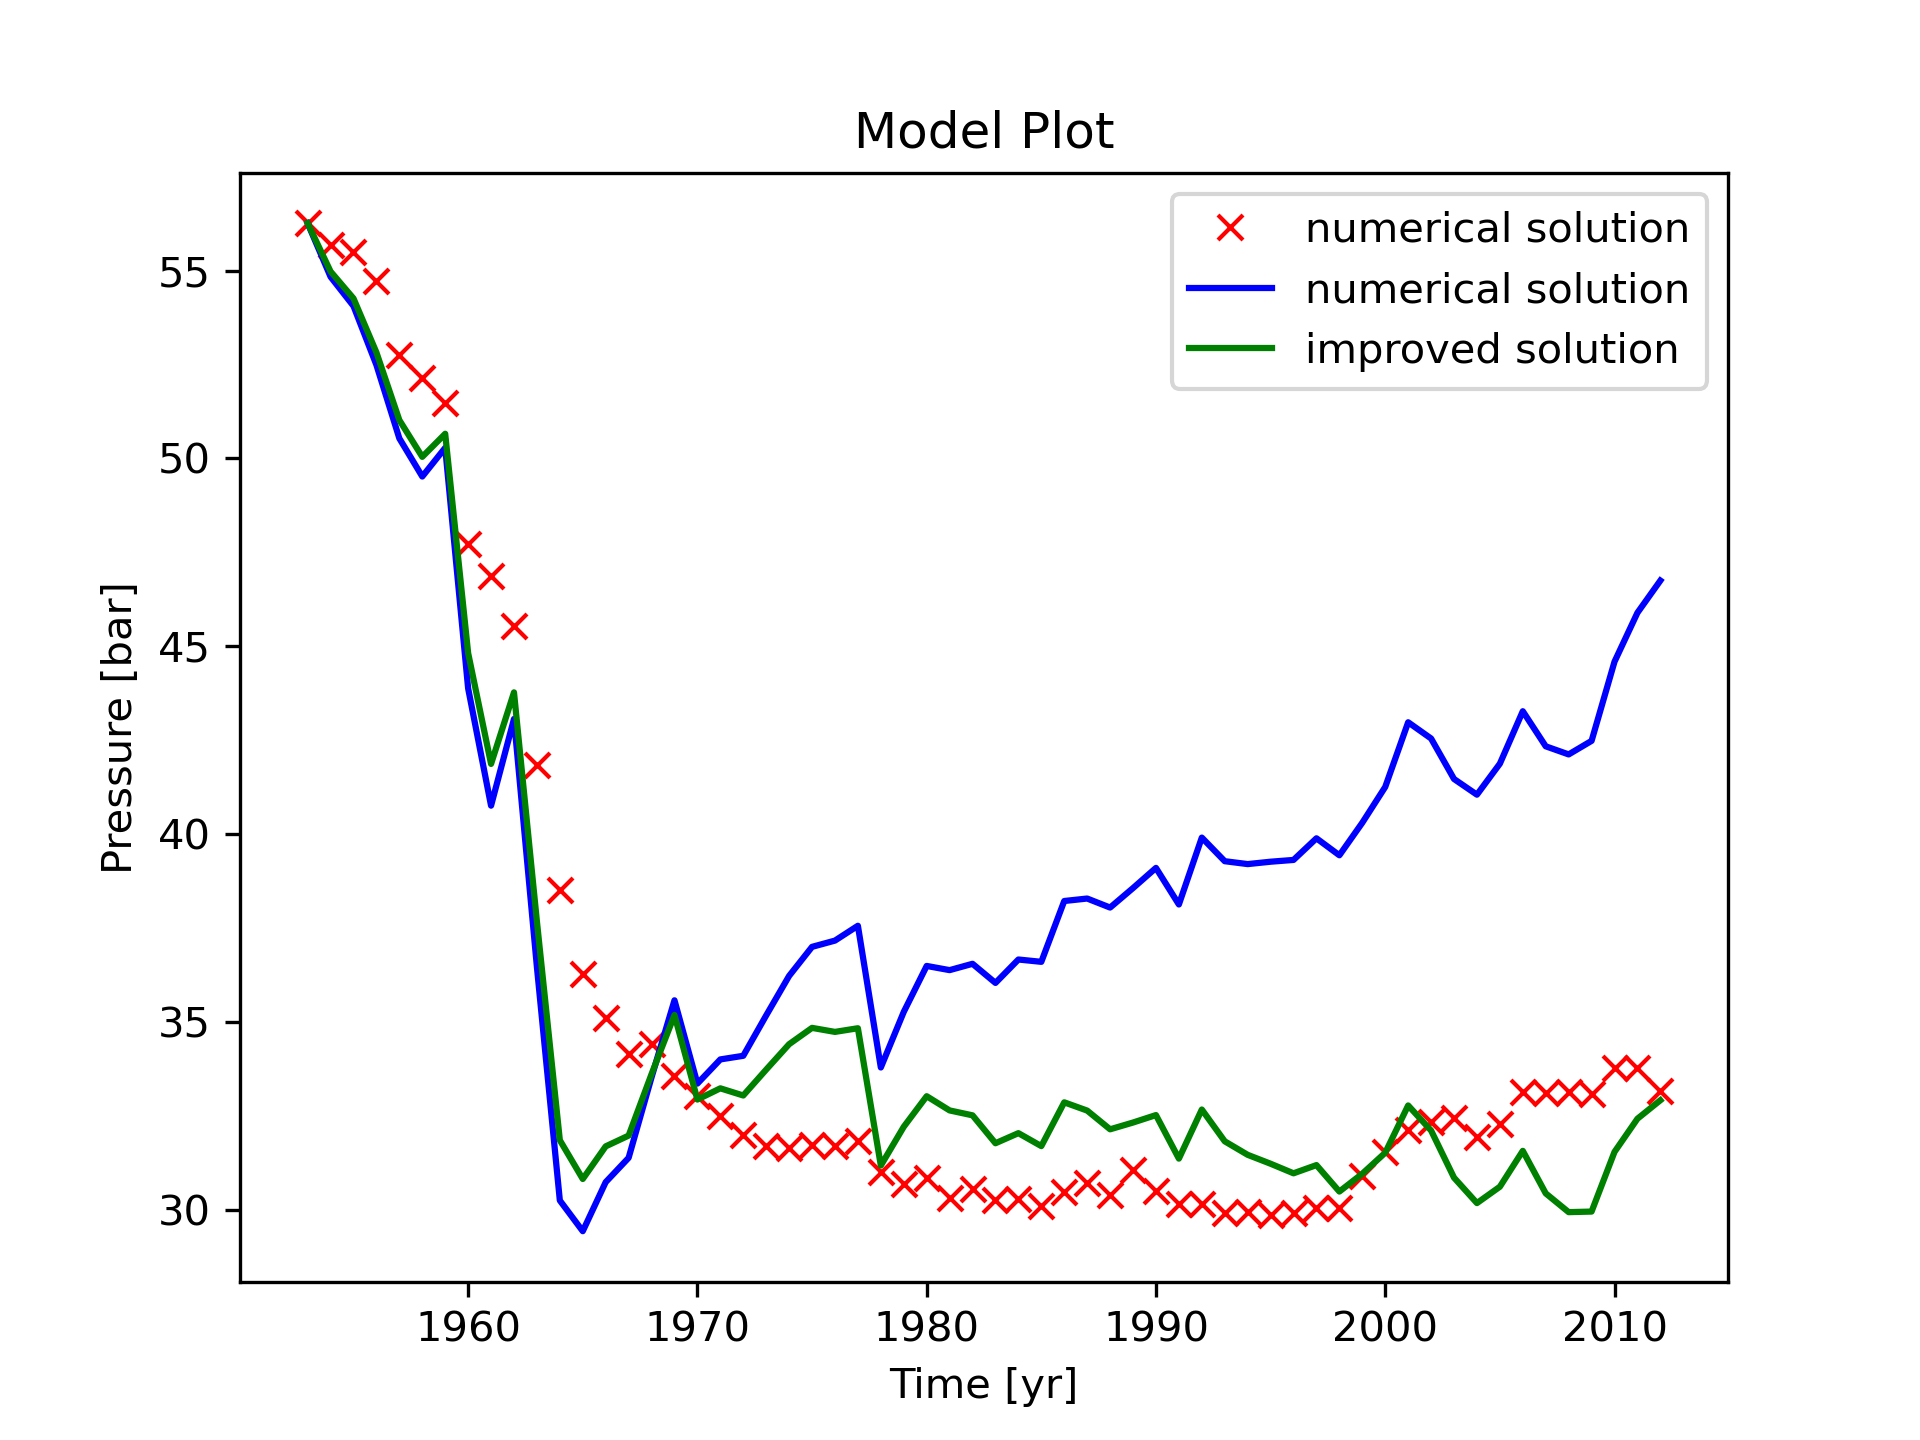
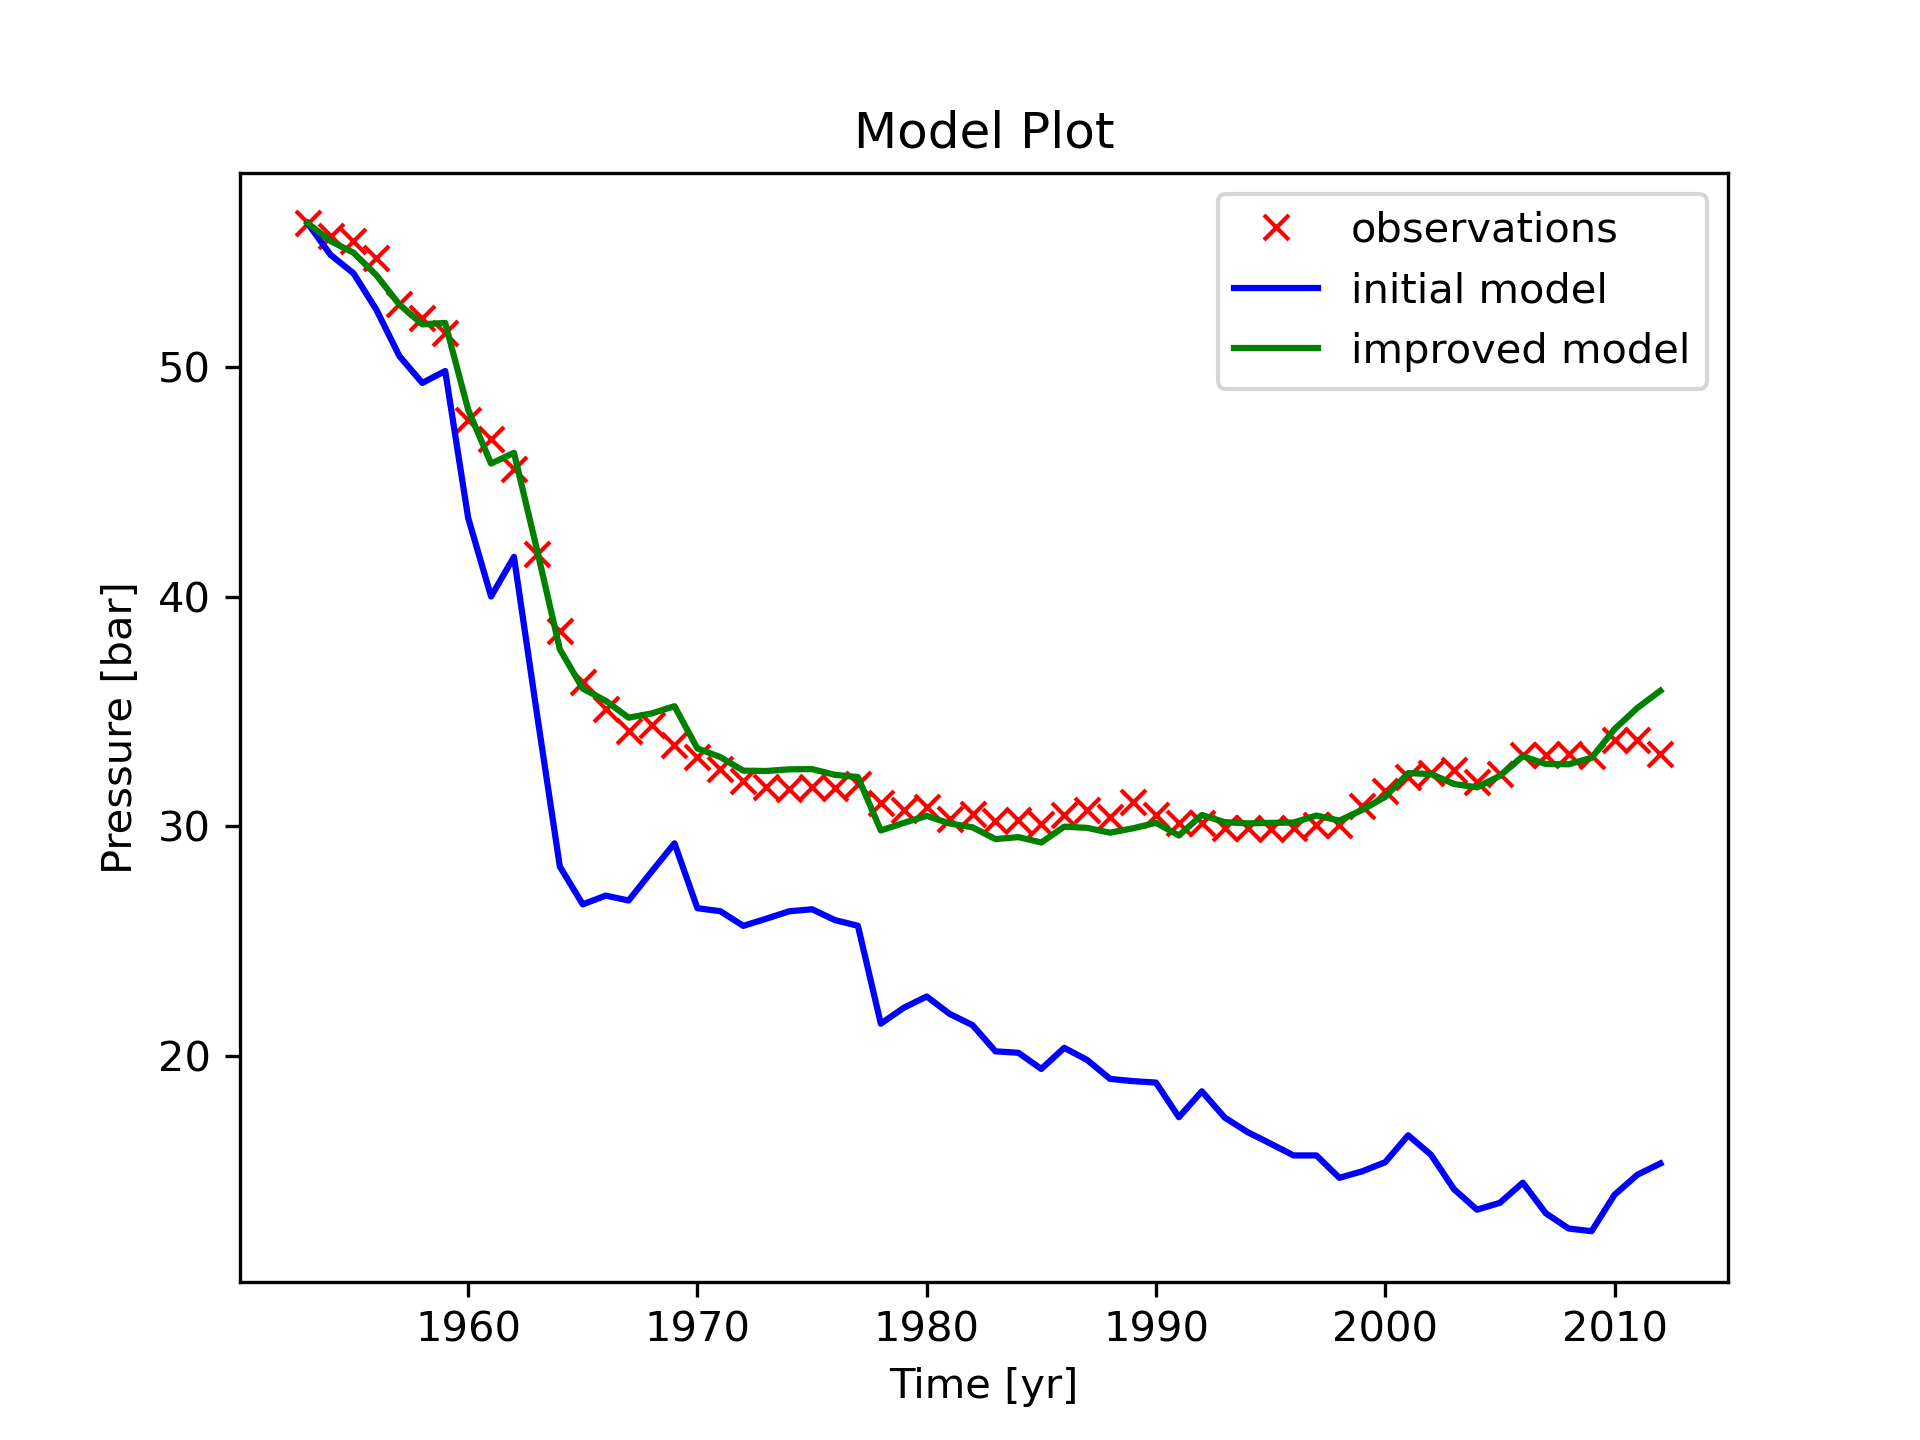
added subsidence model

diff --git a/modelG15.py b/modelG15.py
@@ -122,7 +122,7 @@ def solve_pressure_ode(f, t0, t1, dt, p0, pars):
     t_range = np.arange(t0, t1 + dt, dt)
 
     q = interpolate_mass_extraction(t_range)
-    dqdt = q
+    dqdt = q.copy()
 
     for i in range(len(q)-1):
         dqdt[i] = (q[i+1] - q[i])/dt
@@ -184,13 +184,13 @@ def plot_pressure_model():
     pars = [a, b, c]
 
     t_data, p_data = load_pressure_data()
-    plt.plot(t_data, p_data, "x", color="red", label="numerical solution")
+    plt.plot(t_data, p_data, "x", color="red", label="observations")
 
     t, p = solve_pressure_ode(pressure_ode, t0, t1, dt, p0, pars)
-    plt.plot(t, p, "-", color="blue", label="numerical solution")
+    plt.plot(t, p, "-", color="blue", label="initial model")
 
 
-    def Tmodel(t, *pars):
+    def Pmodel(t, *pars):
         t0 = 1953
         t1 = 2012
         p0 = 56.26
@@ -200,7 +200,7 @@ def plot_pressure_model():
         return Tm
 
     theta0 = [a, b, c]
-    constants = curve_fit(Tmodel, t_data, p_data, theta0)
+    constants = curve_fit(Pmodel, t_data, p_data, theta0)
     a_const = constants[0][0]
     b_const = constants[0][1]
     c_const = constants[0][2]
@@ -210,7 +210,7 @@ def plot_pressure_model():
     pars = [a_const, b_const, c_const]
 
     t, p = solve_pressure_ode(pressure_ode, t0, t1, dt, p0, pars)
-    plt.plot(t, p, "-", color="green", label="improved solution")
+    plt.plot(t, p, "-", color="green", label="improved model")
 
     plt.xlabel('Time [yr]')
     plt.ylabel('Pressure [bar]')
@@ -222,6 +222,42 @@ def plot_pressure_model():
         plt.show()
     else:
         plt.savefig('model_plot', dpi=300)
+        plt.show()
+
+    return a_const, b_const, c_const
+
+def subsidence_model(t, p, d):
+    return d * p * (1 - (1 / (1 + np.exp((t - 1979.1) / 8.2))))
+
+def plot_subsidence_model(a,b,c):
+    pars = [a, b, c]
+
+    t0 = 1953
+    t1 = 2012
+    p0 = 56.26
+    dt = 1
+    d = 0.5
+
+    t, p = solve_pressure_ode(pressure_ode, t0, t1, dt, p0, pars)
+
+    s = p.copy()
+    for i in range(len(t)):
+        s[i] = subsidence_model(t[i], p[i], d)
+    plt.plot(t, s, "-", color="blue", label="improved solution")
+
+    Time, Disp = np.genfromtxt('sb_disp.txt', delimiter=',', skip_header=1).T
+    plt.plot(Time, Disp, "x", color="red", label="observations")
+
+    plt.xlabel('Time [yr]')
+    plt.ylabel('Subsidence [m]')
+    plt.title('Model Plot')
+    plt.legend()
+
+    plt.show()
 
 if __name__ == "__main__":
-    plot_pressure_model()
+    a, b, c = plot_pressure_model()
+    plot_subsidence_model(a, b, c)
+
+
+
